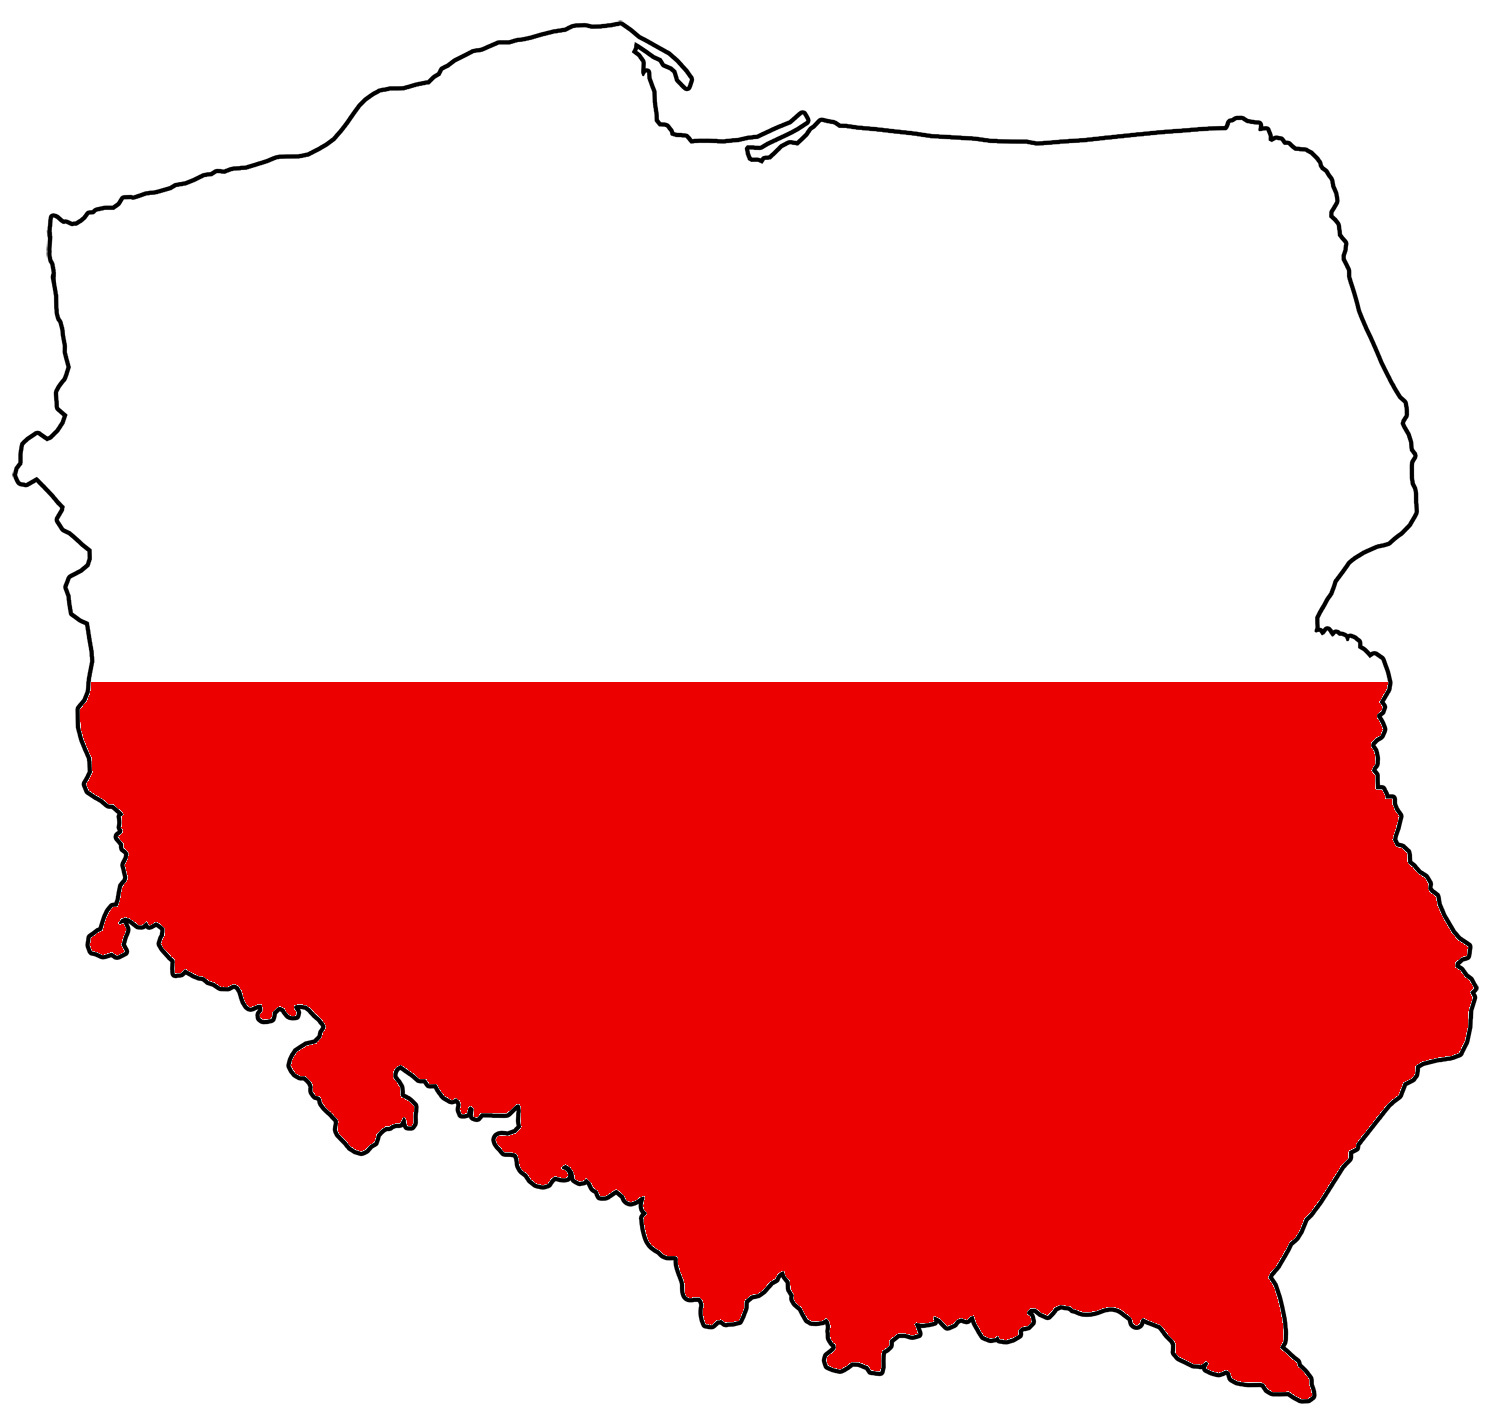
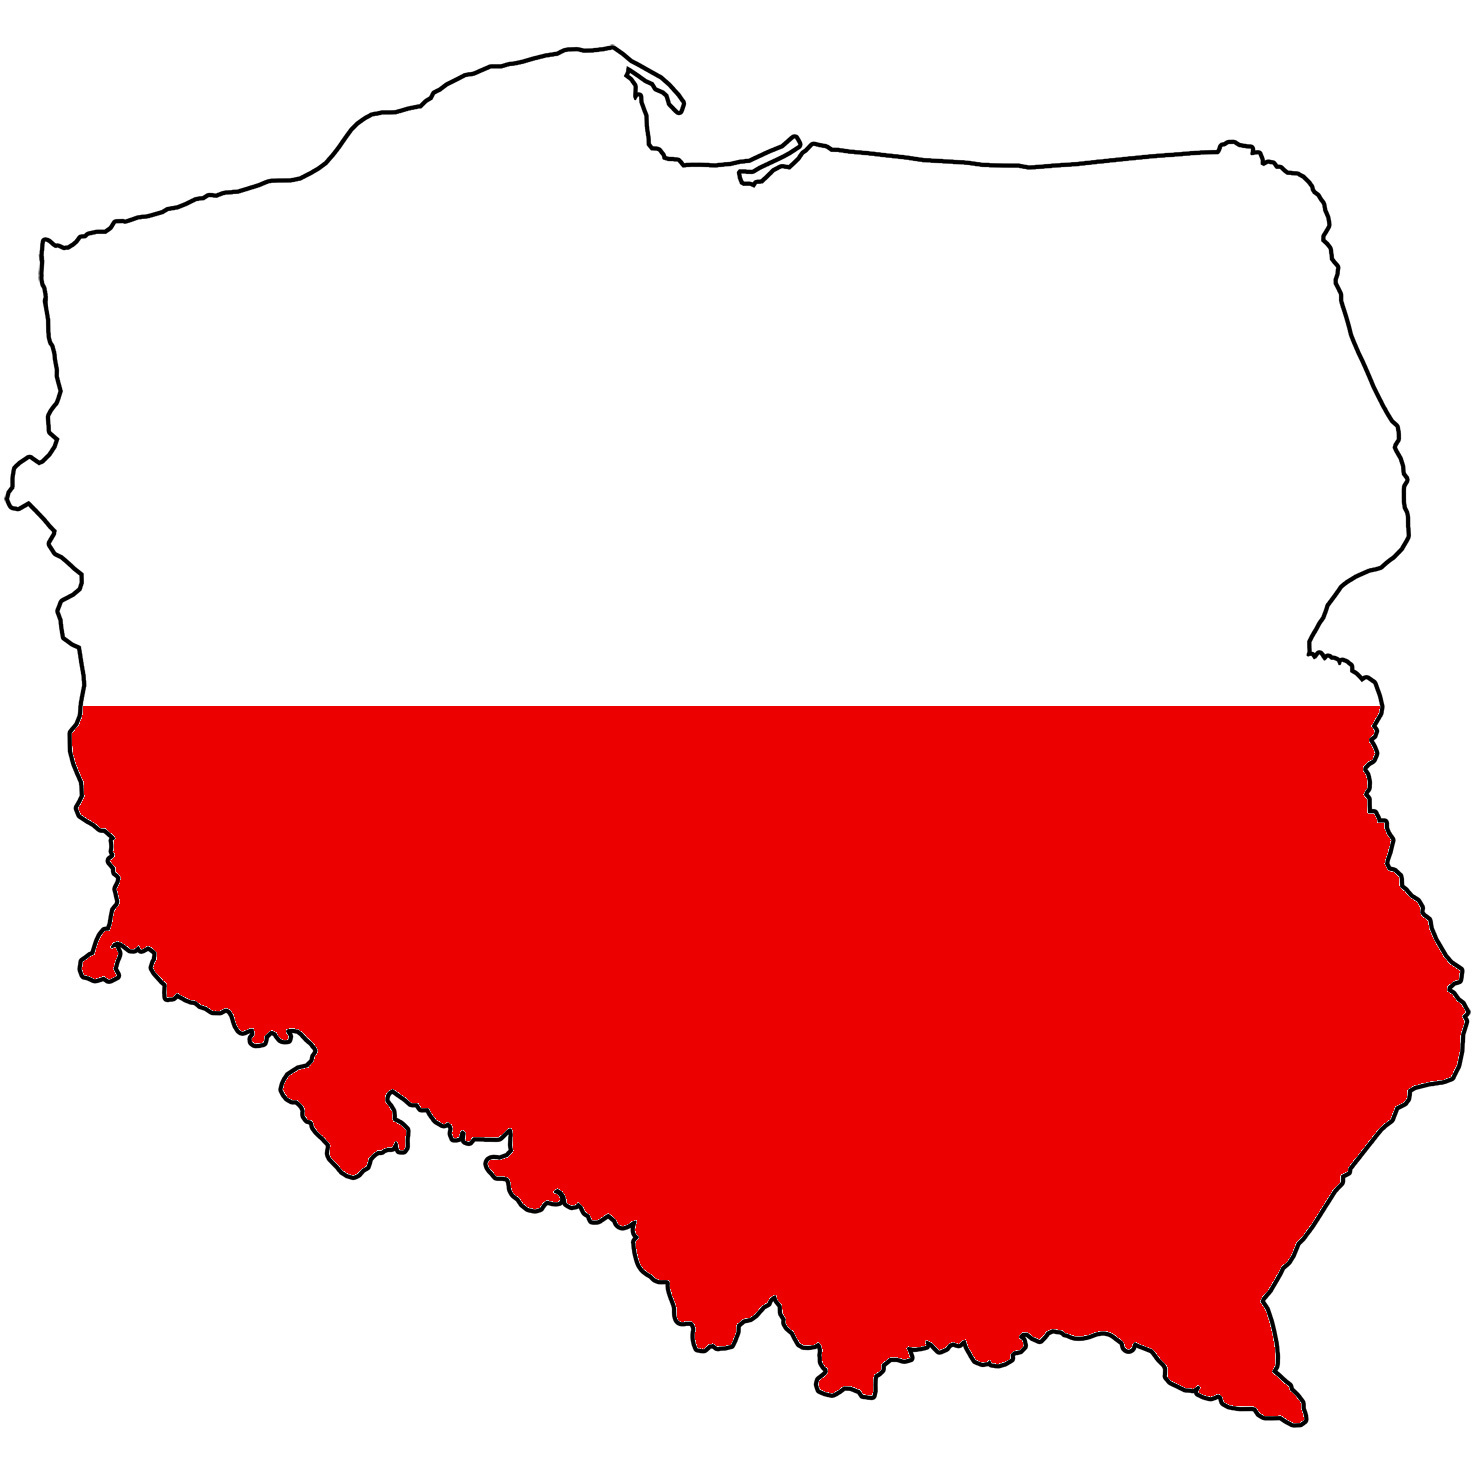
dodano: funkcję powodującą prezentację mapy Polski

diff --git a/main.py b/main.py
@@ -1,0 +1,21 @@
+import matplotlib.pyplot as plt
+import matplotlib.image as mpimg
+
+
+RESOURCE_POLAND_MAP_PATH: str = "resources/images/poland-map.jpg"
+
+
+def show_poland_map() -> None:
+    """
+    Funkcja powoduje pokazanie na ekranie kompletnej mapy Polski bez dodatkowych oznaczeń.
+
+    :return: None
+    """
+    poland_map = mpimg.imread(RESOURCE_POLAND_MAP_PATH, "jpg")
+    plt.figure(figsize=(30, 30))
+    plt.imshow(poland_map)
+    plt.show()
+    return None
+
+
+show_poland_map()
